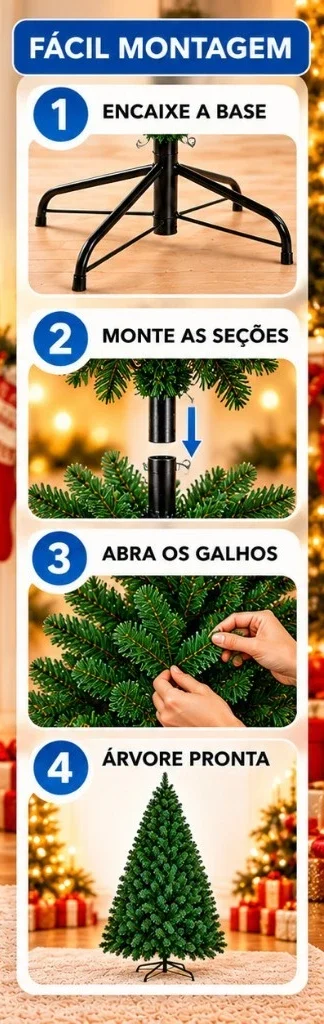
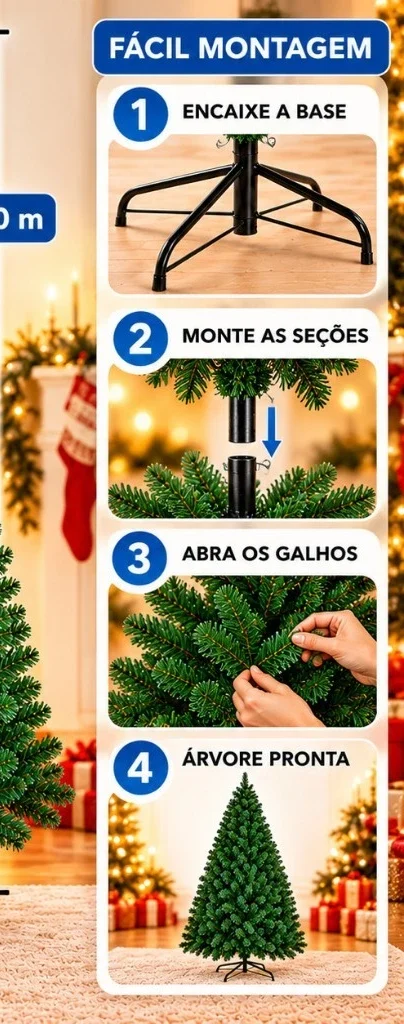
Remove mencao ao gateway nos textos e melhora enquadramento da galeria
- Textos publicos passam a falar apenas em pagamento seguro via PIX
- Detalhes recortado em formato quadrado; montagem exibida com contain
- Altura da galeria reduzida em telas ate 600px

Generated with [Devin](https://devin.ai)

diff --git a/index.html b/index.html
@@ -115,7 +115,7 @@
           <details><summary>O preço é por árvore ou pelo kit completo?<span aria-hidden="true">+</span></summary><p>O valor de <strong data-money="price"></strong> corresponde ao kit completo com as três árvores e os acessórios informados. O frete é grátis.</p></details>
           <details><summary>Como funciona a entrega?<span aria-hidden="true">+</span></summary><p>Frete grátis para todo o Brasil, com entrega em até 7 dias corridos a partir da confirmação do pagamento.</p></details>
           <details><summary>Posso solicitar a devolução?<span aria-hidden="true">+</span></summary><p>Você pode solicitar a devolução em até 30 dias após a compra, sem prejuízo dos direitos legais do consumidor. O canal de solicitação é informado no acompanhamento do pedido.</p></details>
-          <details><summary>Quais são as formas de pagamento?<span aria-hidden="true">+</span></summary><p>O pagamento é exclusivamente via PIX, processado pela MercosulPay. Após preencher seus dados, o QR Code e o código copia e cola são gerados na hora. O pedido é confirmado automaticamente quando o provedor identifica o pagamento.</p></details>
+          <details><summary>Quais são as formas de pagamento?<span aria-hidden="true">+</span></summary><p>O pagamento é exclusivamente via PIX, processado de forma segura. Após preencher seus dados, o QR Code e o código copia e cola são gerados na hora. O pedido é confirmado automaticamente quando o provedor identifica o pagamento.</p></details>
           <details><summary>Como acompanho meu pedido?<span aria-hidden="true">+</span></summary><p>Após gerar o PIX, você recebe um link de acompanhamento com o status do pedido atualizado automaticamente, do pagamento à entrega.</p></details>
           <details><summary>As imagens são fotografias do produto?<span aria-hidden="true">+</span></summary><p>Não. São artes ilustrativas baseadas na referência da campanha. As características informadas pelo responsável não tornam a arte uma fotografia fiel. Fotos reais ainda precisam ser disponibilizadas.</p></details>
         </div>
@@ -131,14 +131,14 @@
         <div><a class="brand footer-brand" href="#">Shop<span class="brand-gold">Christmas</span></a><p>Mais encanto para a sua casa.<br>Mais memórias para o seu Natal.</p><span class="footer-preview">SHOPCHRISTMAS.COM.BR</span></div>
         <div><h3>Explore</h3><a href="#kit">O kit de Natal</a><a href="#detalhes">Detalhes da oferta</a><a href="#duvidas">Perguntas frequentes</a></div>
         <div><h3>Informações</h3><button data-policy="privacy">Privacidade</button><button data-policy="terms">Termos de compra</button><button data-policy="delivery">Entrega e devolução</button></div>
-        <div><h3>Atendimento</h3><p>Canal de atendimento em configuração.<br>Dados comerciais pendentes.</p><div class="payment-marks"><span>PIX</span></div><small>Pagamento processado pela MercosulPay.</small></div>
+        <div><h3>Atendimento</h3><p>Canal de atendimento em configuração.<br>Dados comerciais pendentes.</p><div class="payment-marks"><span>PIX</span></div><small>Pagamento seguro e instantâneo.</small></div>
       </div>
       <div class="container footer-bottom"><span>© <span id="year"></span> ShopChristmas · Todos os direitos reservados.</span><span>Pagamento exclusivo via PIX.</span></div>
     </footer>
     <aside class="mobile-buy" aria-label="Resumo rápido do kit"><div><small>3 árvores · Frete grátis</small><strong data-money="price"></strong></div><button class="button primary" data-checkout>VER MEU KIT <span aria-hidden="true">↗</span></button></aside>
     <dialog id="checkout-dialog" aria-labelledby="checkout-title">
       <div class="dialog-header"><span class="eyebrow">SHOPCHRISTMAS</span><button class="close-button" data-close aria-label="Fechar checkout">×</button></div>
-      <div class="checkout-heading"><span class="step-label">CHECKOUT SEGURO</span><h2 id="checkout-title">Seu Natal está <em>quase pronto.</em></h2><p class="demo-notice">Preencha seus dados e gere o código PIX para concluir a compra. Pagamento processado pela MercosulPay.</p></div>
+      <div class="checkout-heading"><span class="step-label">CHECKOUT SEGURO</span><h2 id="checkout-title">Seu Natal está <em>quase pronto.</em></h2><p class="demo-notice">Preencha seus dados e gere o código PIX para concluir a compra. Pagamento seguro via PIX.</p></div>
       <div class="checkout-grid">
         <section class="checkout-payment" aria-labelledby="payment-title">
           <h3 id="payment-title"><span class="step-circle">1</span> Seus dados</h3>
@@ -160,7 +160,7 @@
             <div class="pix-actions"><button type="button" id="pix-copy" class="copy-button">Copiar código PIX</button><a id="pix-track" class="track-link" href="#" target="_blank" rel="noopener">Acompanhar pedido ↗</a></div>
           </div>
         </section>
-        <section class="order-summary" aria-labelledby="summary-title"><h3 id="summary-title">Resumo do kit</h3><div class="summary-product"><img src="/assets/trees.webp" width="74" height="92" alt="Arte ilustrativa do kit"><div><strong>Kit com 3 árvores de Natal</strong><span>1,80 m cada · Com acessórios</span><span>Quantidade: 1 kit</span></div></div><dl><div><dt>Valor original</dt><dd><s data-money="original"></s></dd></div><div class="summary-discount"><dt>Desconto da oferta</dt><dd>− <span data-money="saving"></span></dd></div><div><dt>Subtotal do kit</dt><dd data-money="price"></dd></div><div><dt>Frete</dt><dd class="free-shipping">Grátis</dd></div><div class="summary-total"><dt>Total</dt><dd data-money="total"></dd></div></dl><img class="pix-guarantee summary-guarantee" src="/assets/pix-garantia.webp" alt="Selo de segurança PIX: compra protegida." width="650" height="234" loading="lazy"><p class="summary-included">Você recebe as <strong>3 árvores</strong> pelo total acima.</p><button type="submit" form="customer-form" id="submit-order" class="button primary">GERAR PIX <span aria-hidden="true">↗</span></button><p class="payment-note">Ao continuar, criamos seu pedido e geramos a cobrança PIX na MercosulPay.</p><div class="summary-delivery"><strong>Condições informadas da oferta</strong><span>Entrega em até 7 dias corridos.</span><span>Devolução: solicitação em até 30 dias após a compra.</span></div></section>
+        <section class="order-summary" aria-labelledby="summary-title"><h3 id="summary-title">Resumo do kit</h3><div class="summary-product"><img src="/assets/trees.webp" width="74" height="92" alt="Arte ilustrativa do kit"><div><strong>Kit com 3 árvores de Natal</strong><span>1,80 m cada · Com acessórios</span><span>Quantidade: 1 kit</span></div></div><dl><div><dt>Valor original</dt><dd><s data-money="original"></s></dd></div><div class="summary-discount"><dt>Desconto da oferta</dt><dd>− <span data-money="saving"></span></dd></div><div><dt>Subtotal do kit</dt><dd data-money="price"></dd></div><div><dt>Frete</dt><dd class="free-shipping">Grátis</dd></div><div class="summary-total"><dt>Total</dt><dd data-money="total"></dd></div></dl><img class="pix-guarantee summary-guarantee" src="/assets/pix-garantia.webp" alt="Selo de segurança PIX: compra protegida." width="650" height="234" loading="lazy"><p class="summary-included">Você recebe as <strong>3 árvores</strong> pelo total acima.</p><button type="submit" form="customer-form" id="submit-order" class="button primary">GERAR PIX <span aria-hidden="true">↗</span></button><p class="payment-note">Ao continuar, criamos seu pedido e geramos a cobrança PIX na hora.</p><div class="summary-delivery"><strong>Condições informadas da oferta</strong><span>Entrega em até 7 dias corridos.</span><span>Devolução: solicitação em até 30 dias após a compra.</span></div></section>
       </div>
     </dialog>
     <dialog id="policy-dialog" aria-labelledby="policy-title"><div class="dialog-header"><span class="eyebrow">INFORMAÇÕES DA PRÉVIA</span><button class="close-button" data-close aria-label="Fechar informações">×</button></div><h2 id="policy-title"></h2><div id="policy-content"></div></dialog>

diff --git a/styles.css b/styles.css
@@ -14,3 +14,5 @@
   bottom: 110px;
 }
 @media(prefers-reduced-motion:reduce){html{scroll-behavior:auto}*,*:before,*:after{transition:none!important;animation:none!important}.button.primary:not(:disabled):hover{transform:none}}
+
+@media(max-width:600px){.kit-art{height:430px}.kit-thumb{width:64px;height:64px}}
